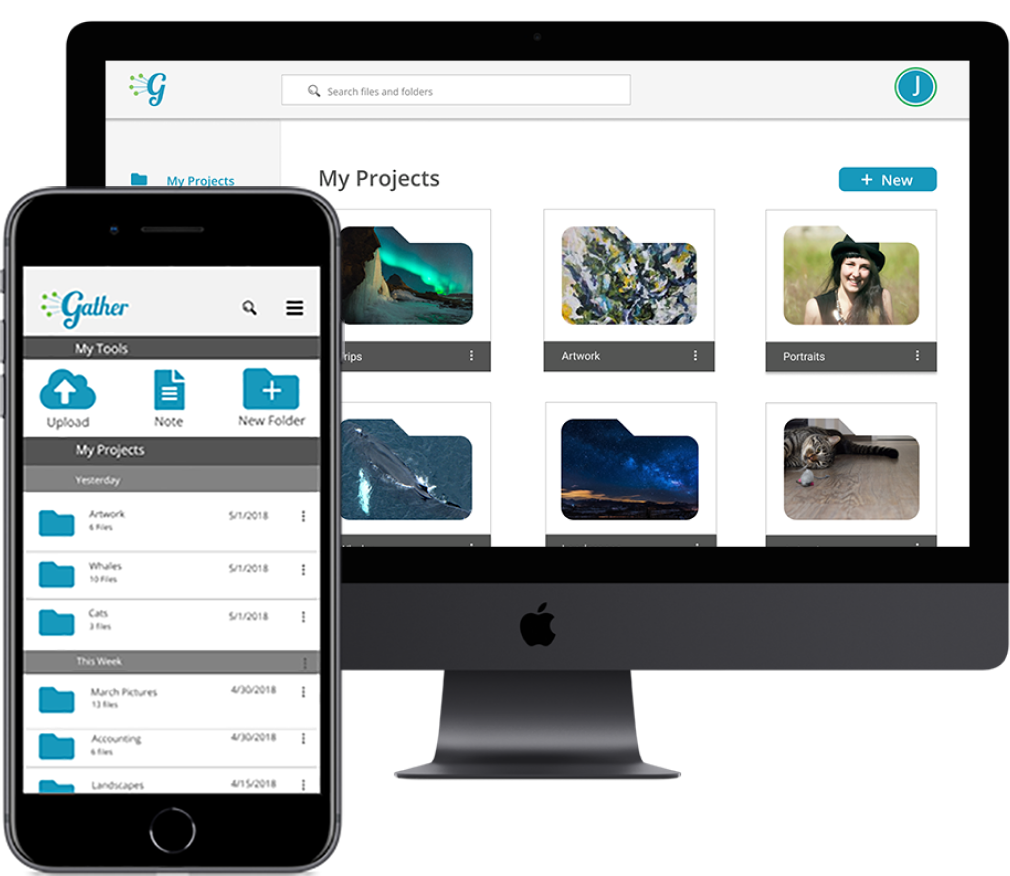
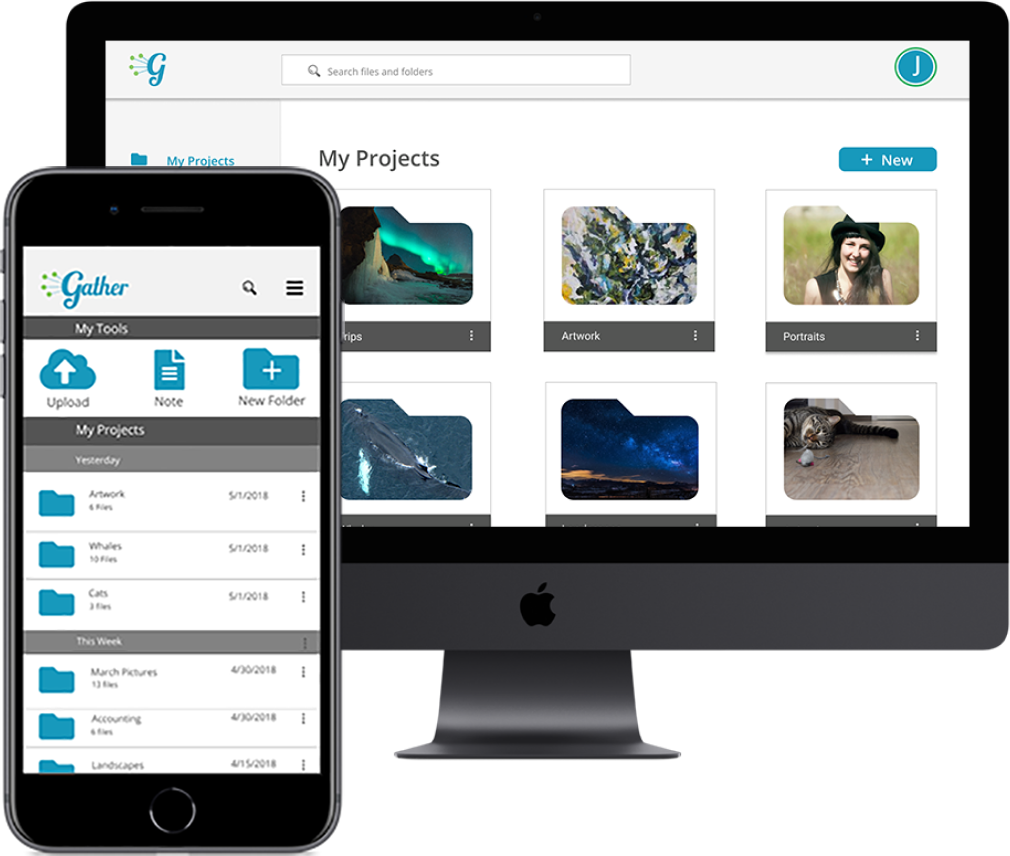
fixed responsive issues

diff --git a/index.html b/index.html
@@ -18,6 +18,7 @@
     </head>
     <body>
         <header class="header">
+            <section class="header__wrap">
             <a href="./index.html">
             <img class="header__logo" src="images/logo.png" alt="Jaclyn Antreasian Logo"></a>
             <i class="header__button fas fa-bars"></i>
@@ -25,8 +26,9 @@
                 <a href="./project.html"> <i class="fas fa-pencil-alt"></i>Work</a>
                 <a href="./about.html"><i class="far fa-user"></i>About</a>
                 <a href="https://www.behance.net/jaclynantre397"><i class="fab fa-behance-square"></i>Behance</a>
-            <a href="mailto:jaclynantreasian@gmail.com"><i class="far fa-handshake"></i>Contact</a>
+                <a href="mailto:jaclynantreasian@gmail.com"><i class="far fa-handshake"></i>Contact</a>
             </nav>
+            </section>
         </header>
     <div class="container">
         <section class="intro">
@@ -38,25 +40,32 @@
         </section>
 
         <section class="cases">
-            <section class="cases__text">
+            <div class="cases__text">
                 <h2 class="cases__headline">Gather</h2>
                 <p class="cases__subheader">An all in one cloud storage app where you can upload, organize and share any type of file.</p>
                 <a class="cta__button" href="./project.html">View Case Study</a>
-		</section>
+		    </div>
+            
+                <section class="image__parent">
+                <div class="cases__images">
+                    <img class="cases__mockup" src="images/mockup2.png" alt="gather mockup"/>
+                </div>
+                </section>
+        </section>
 
-        <section class="cases__images">
-            <img class="cases__mockup" src="images/mockup2.png" alt="gather mockup"/>
-        </section>
-        </section>
-         <section class="cases cases2">
-         <section class="cases__images">
-            <img class="cases__mockup2" src="images/chinagarden.png" alt="China Garden mockup"/>
-        </section>
-            <section class="cases__text2">
+        <section class="cases cases2">
+            <div class="image__parent parent2">
+                <div class="cases__images case__image2">
+                    <img class="cases__mockup2" src="images/chinagarden.png" alt="China Garden mockup"/>
+                </div>
+            </div>
+
+            <div class="cases__text2">
                 <h2 class="cases__headline">China Garden</h2>
                 <p class="cases__subheader">A redesign to reflect the modern restaurant experience. Case study and live site under construction!</p>
                 <a class="cta__button" href="https://www.behance.net/gallery/99006781/China-Garden-web-page-redesign" target="_blank">See The Design</a>
-		</section>
+		    </div>
+        </section>
 
         
         </section>

diff --git a/css/style.css b/css/style.css
@@ -55,13 +55,14 @@ body{
     flex-direction: column;
     padding-top: 25px;
 }
+
 .cases{
     width: 100%;
     padding: 50px 0;
     background-color: #123684;
     display: flex;
     flex-direction: column;
-    align-items: center;
+
 }
 
 .cases2{
@@ -73,8 +74,14 @@ body{
 .cases__images{
     display: flex;
     flex-direction: column;
-    align-content: center;
+    max-width: 450px;
+
 }
+
+.image__parent{
+    padding: 30px;
+}
+
 
 .cases__headline{
     color:  #DBA327;
@@ -92,14 +99,11 @@ body{
 }
 
 .cases__mockup{
-padding-bottom: 25px;
-width: 50%;
-align-self: center;
+width: 100%;
 }
 
 .cases__mockup2{
-    padding-bottom: 25px;
-    width: 70%;
+    width: 100%;
     align-self: center;
 }
 
@@ -117,10 +121,6 @@ align-self: center;
 .case__swot{
     display: flex;
     justify-content: space-around;
-}
-
-.cases__text{
-    padding-bottom: 25px;
 }
 
 .cta__button{
@@ -285,12 +285,17 @@ footer{
 .header{
     display: flex;
     background-color: #251F47;
-    justify-content: space-between;
     height: 50px;
     margin-bottom: 50px;
     position: fixed;
     width: 100%;
+}
+
+.header__wrap{
+    display: flex;
     z-index: 20;
+    width: 100%;
+    justify-content: space-between;
 
 }
 
@@ -768,4 +773,20 @@ hr {
 .cases__button{
 display: flex;
 justify-content: center;
+}
+
+
+
+/*
+The are mobile changes
+
+Remove the padding from this guy '.cases__mockup'. Dont put padding on images
+it because of their nature it is hard to predict the results
+and you end up with space you might not be accounting for
+
+set width of .cases__mockup to 100%
+
+update the image container class to look like this adds the outside 
+.cases__images {
+    
 }

diff --git a/css/media.css b/css/media.css
@@ -20,18 +20,25 @@
 
     .cases{
         flex-direction: row;
-        justify-content: space-around;
+        align-items: center;
+
         }
 
-    
+.cases__img__prt{
+    padding: 0 30px;
+}
 
+    .cases__mockup2{
+        padding-bottom: 0;
+    }
+    
     .cases__text{
-        margin-left: 20%;
+        margin-left: 15%;
         width: 30%;
     }
 
     .cases__text2{
-        margin-right:20%;
+        margin-left: 50px;
         width: 30%;
     }
 
@@ -43,9 +50,20 @@
     .cases__mockup{
         flex-direction: row;
     }
+
+    .header{
+            justify-content: center;
+        }
+
+
     .header__nav{
         width: 15%;
     }
+
+    .header__wrap{
+        width: 1200px;
+    }
+
     .intro__subheadline{
         width: 70%;
     }
@@ -83,8 +101,13 @@
 
 
     .paragraph__text.pw{
+        margin-left: 0;
         width: 35%;
         padding: 25px;
+    }
+
+    .parent2{
+        margin-left: 15%;
     }
 
     .past{
